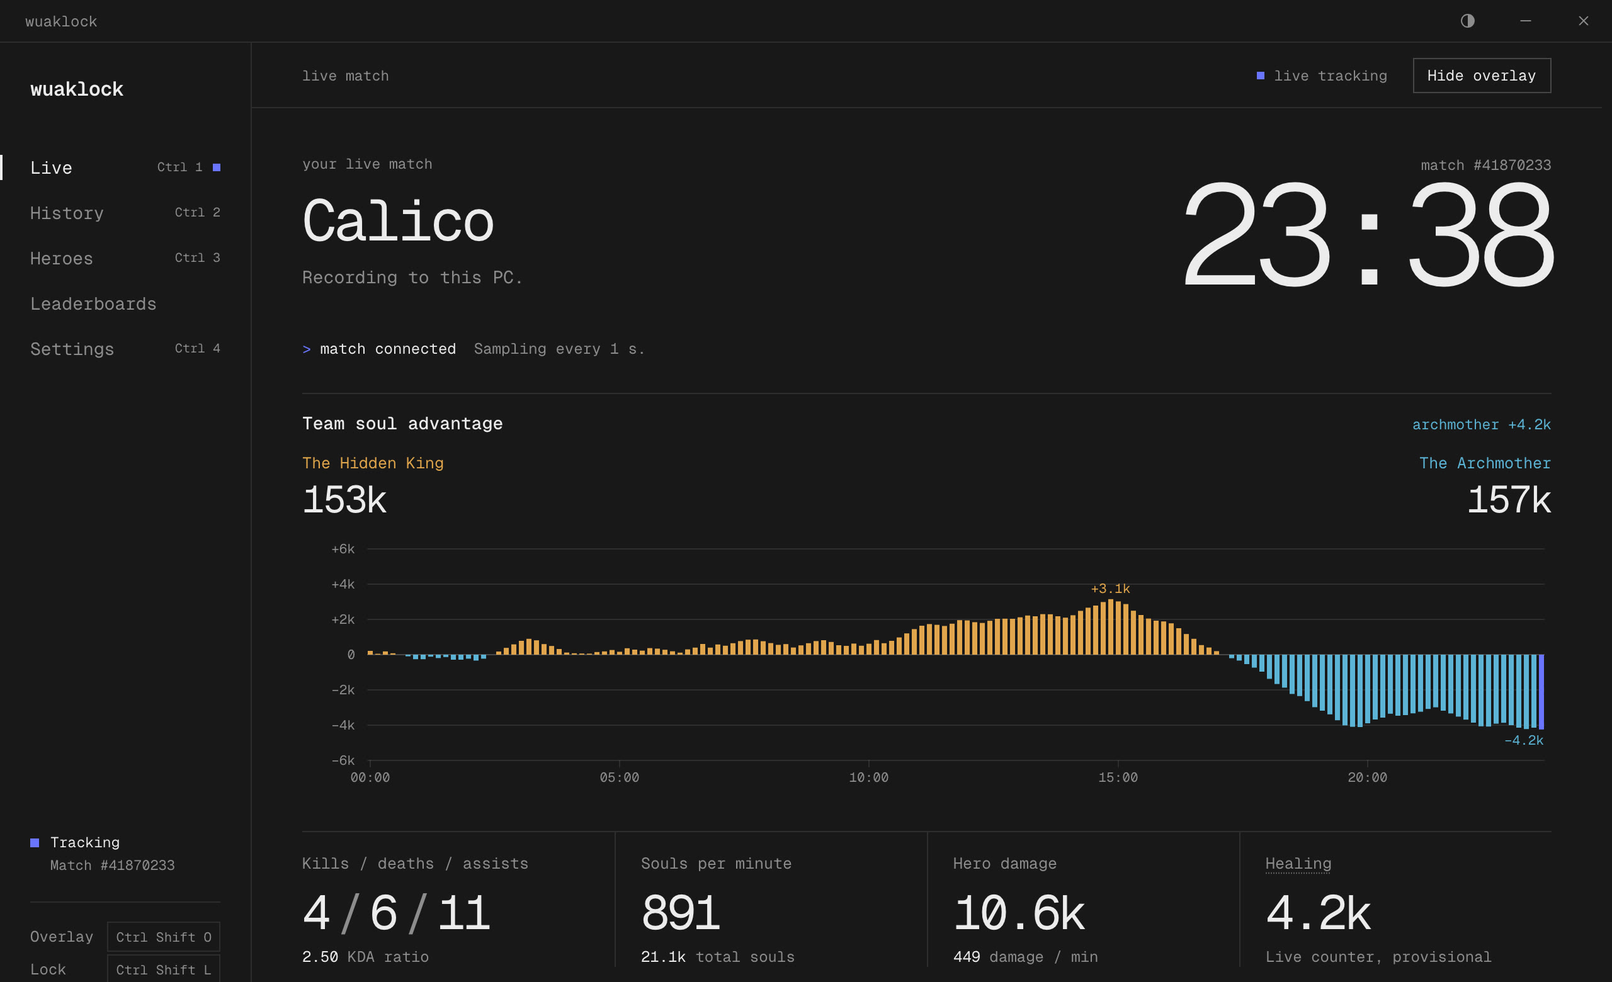
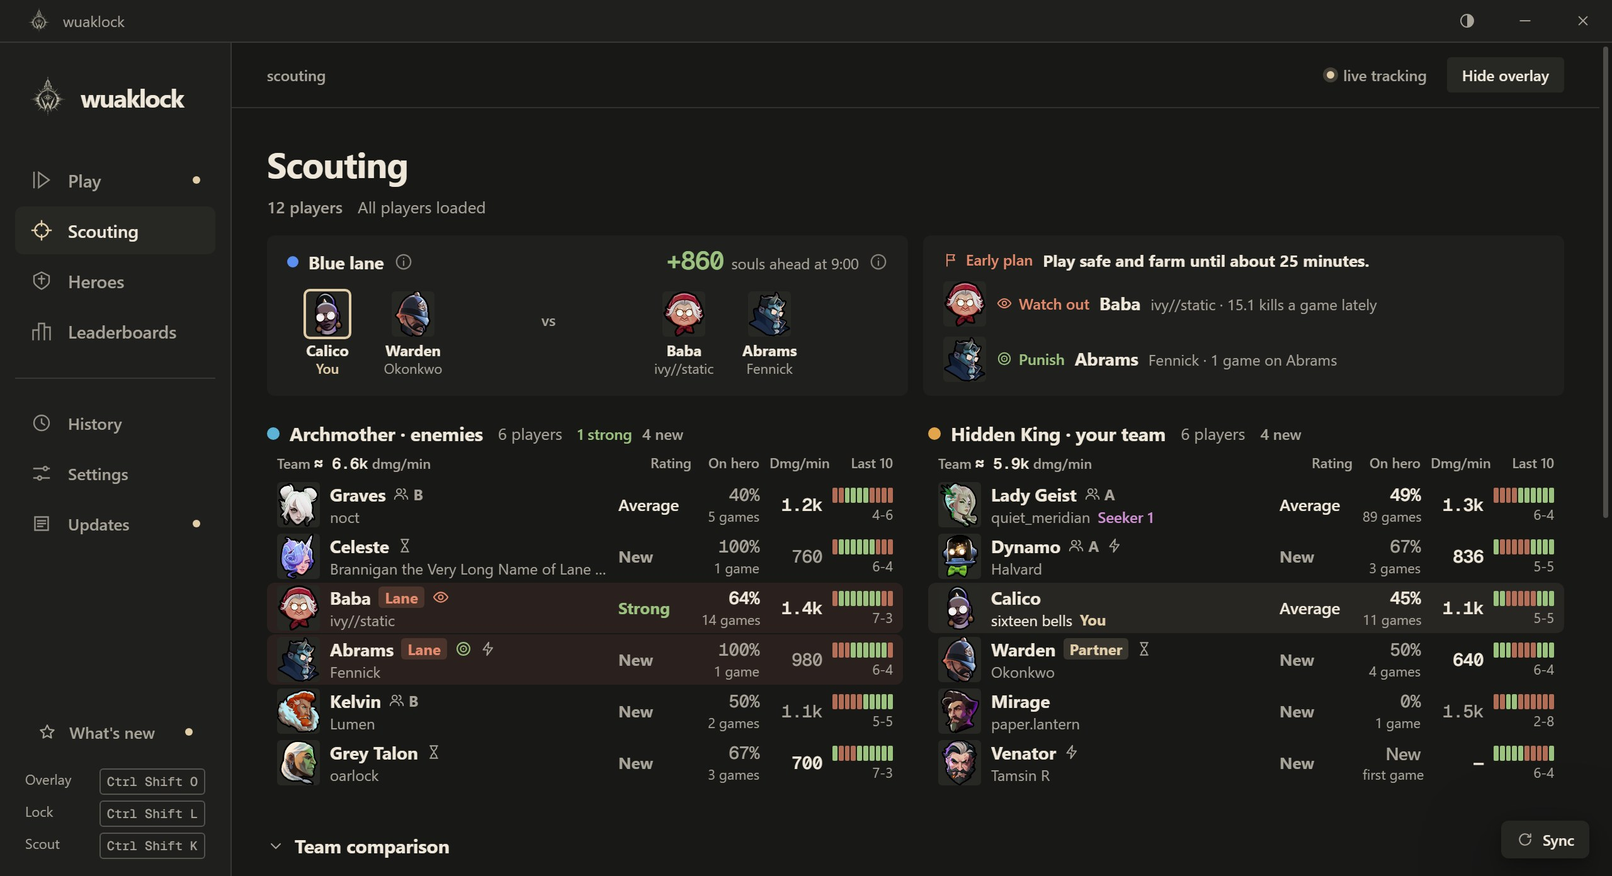
WuakLock page: free download, current features, honest safety note; privacy policy brought up to date
- Download for Windows links to the public releases; status now Free /
  Early access instead of In development.
- Copy and both screenshots show the current app: next buy, Scouting
  ratings, match grades and the opt-in leaderboard (sample data).
- New 'Is it safe?' section: reads game memory, unofficial, unsigned.
- Privacy policy (effective November 3, 2026): scouting is opt-in,
  update checks on GitHub, the optional leaderboard (what it stores,
  what is public, how leaving deletes it), Discord, feedback, sharing.

diff --git a/wuaklock/index.html b/wuaklock/index.html
@@ -5,9 +5,9 @@
   <meta name="viewport" content="width=device-width,initial-scale=1">
   <meta name="theme-color" content="#080a09">
   <title>WuakLock — A Deadlock companion</title>
-  <meta name="description" content="A Windows companion for Deadlock. Live stats over the game, a wider view on your second screen, and public match history for lobby scouting. In development.">
+  <meta name="description" content="A free Windows companion for Deadlock: what to buy next and why, the enemy team scouted on the loading screen, a grade for every match, and a community leaderboard.">
   <meta property="og:title" content="WuakLock — A Deadlock companion">
-  <meta property="og:description" content="Read the city. Live overlay, lobby scouting and local match history for Deadlock. Windows · in development.">
+  <meta property="og:description" content="Read the city. Next buy, lobby scouting, match grades and a community leaderboard for Deadlock. Free for Windows.">
   <meta property="og:image" content="https://jakedev.org/wuaklock/emblem.png">
   <meta property="og:type" content="website">
   <meta property="og:url" content="https://jakedev.org/wuaklock/">
@@ -23,7 +23,7 @@
   <header class="masthead">
     <a class="wordmark" href="./" aria-label="WuakLock home"><img src="logo.png" width="38" height="38" alt=""><span>wuaklock</span></a>
     <span class="masthead-note">An independent Deadlock companion</span>
-    <nav aria-label="WuakLock"><a href="privacy/">Privacy</a><a href="terms/">Terms</a></nav>
+    <nav aria-label="WuakLock"><a href="#safety">Is it safe?</a><a href="privacy/">Privacy</a><a href="terms/">Terms</a><a href="https://github.com/quakeob/wuaklock-releases/releases/latest">Download</a></nav>
   </header>
 
   <main>
@@ -36,11 +36,12 @@
       <div class="hero-copy">
         <p class="eyebrow"><span class="cross" aria-hidden="true">+</span> A companion for Deadlock</p>
         <h1 id="hero-title">Read<br> the city<span class="title-stop">.</span></h1>
-        <p class="hero-description">Live overlay. Lobby scouting.<br> A wider view of the match.</p>
-        <a class="text-link hero-link" href="#companion">Explore WuakLock <span aria-hidden="true">↗</span></a>
+        <p class="hero-description">What to buy next. Who to watch.<br> A grade for every match.</p>
+        <a class="text-link hero-link" href="https://github.com/quakeob/wuaklock-releases/releases/latest">Download for Windows <span aria-hidden="true">↗</span></a>
+        <a class="text-link hero-link hero-link-quiet" href="#companion">Explore WuakLock <span aria-hidden="true">↓</span></a>
       </div>
       <div class="hero-baseline">
-        <p class="build-status"><span class="status-dot" aria-hidden="true"></span> Windows <span class="separator" aria-hidden="true">/</span> In development</p>
+        <p class="build-status"><span class="status-dot" aria-hidden="true"></span> Windows <span class="separator" aria-hidden="true">/</span> Free <span class="separator" aria-hidden="true">/</span> Early access</p>
         <a class="scroll-cue" href="#companion" aria-label="Explore WuakLock below the skyline"><span>Below the skyline</span><span aria-hidden="true">↓</span></a>
       </div>
     </section>
@@ -51,16 +52,16 @@
         <h2 id="intro-title">The match moves fast.<br> Keep the bigger picture.</h2>
       </div>
       <div class="intro-description">
-        <p>WuakLock brings live match stats, your recorded games and public community data into one Windows app.</p>
-        <p>Keep a small overlay over Deadlock, or give the match room to breathe on your second screen.</p>
+        <p>WuakLock reads your match as you play and brings in public community data: what to buy next, who you're up against, and how you played.</p>
+        <p>Scout the lobby on the loading screen, keep a small card over the game, and look back at every match afterwards.</p>
       </div>
       <figure class="dashboard-figure">
-        <div class="figure-heading"><span>On your second screen</span><span class="preview-label">Development preview</span></div>
-        <a class="image-link" href="dashboard-shot.jpg" target="_blank" rel="noopener" aria-label="Open full-size dashboard preview in a new tab">
-          <img src="dashboard-shot.jpg" width="2560" height="1560" alt="WuakLock's dark dashboard with a live-match clock, team soul advantage timeline and player statistics." loading="lazy" decoding="async">
+        <div class="figure-heading"><span>Scouting, on the loading screen</span><span class="preview-label">Sample data</span></div>
+        <a class="image-link" href="dashboard-shot.jpg" target="_blank" rel="noopener" aria-label="Open full-size Scouting screenshot in a new tab">
+          <img src="dashboard-shot.jpg" width="2560" height="1392" alt="WuakLock's Scouting page: your lane matchup and early-game plan, then both teams side by side with every player rated Strong, Average, Weak or New." loading="lazy" decoding="async">
           <span class="image-expand" aria-hidden="true">↗</span>
         </a>
-        <figcaption><span>Dashboard shown with sample data.</span><span>Live view / Match history / Community data</span></figcaption>
+        <figcaption><span>Scouting shown with sample players.</span><span>Scouting / Play / History / Leaderboards</span></figcaption>
       </figure>
     </section>
 
@@ -68,17 +69,17 @@
       <div class="field-copy">
         <p class="eyebrow"><span class="index">02</span> In the moment</p>
         <h2 id="overlay-title">Eyes on<br> the fight.</h2>
-        <p>Your numbers, close at hand. A compact overlay keeps live stats over the game, with a position you control.</p>
+        <p>The next buy from the best-winning build for your hero, over the game. Open the shop and hover it to see why.</p>
         <ul class="feature-lines">
-          <li><span>Souls, K/D/A and hero damage</span><span aria-hidden="true">↗</span></li>
-          <li><span>Team soul lead and Mid Boss timer</span><span aria-hidden="true">↗</span></li>
+          <li><span>Next buy, and a counter item when the enemy needs one</span><span aria-hidden="true">↗</span></li>
+          <li><span>The enemy team on the loading screen: your lane, who to watch</span><span aria-hidden="true">↗</span></li>
           <li><span>Lock it for clicks to pass through</span><span aria-hidden="true">↗</span></li>
         </ul>
       </div>
       <figure class="overlay-figure">
         <div class="figure-heading"><span>Over the game</span><span aria-hidden="true">02 / LIVE</span></div>
-        <a class="image-link" href="overlay-shot.jpg" target="_blank" rel="noopener" aria-label="Open full-size overlay preview in a new tab">
-          <img src="overlay-shot.jpg" width="1280" height="520" alt="A compact WuakLock statistics overlay across the top of a Deadlock game scene." loading="lazy" decoding="async">
+        <a class="image-link" href="overlay-shot.jpg" target="_blank" rel="noopener" aria-label="Open full-size overlay screenshot in a new tab">
+          <img src="overlay-shot.jpg" width="1520" height="1040" alt="WuakLock's in-game cards: the next item to buy with a counter item, and the enemy team with lane, watch-out and party tags." loading="lazy" decoding="async">
           <span class="image-expand" aria-hidden="true">↗</span>
         </a>
         <figcaption>Overlay shown with sample data.</figcaption>
@@ -92,11 +93,11 @@
         <h2 id="intel-title">Go into the next<br> match with context.</h2>
       </div>
       <div class="intel-entries">
-        <article class="intel-entry"><span class="entry-symbol" aria-hidden="true">[+]</span><div><h3>Read the lobby.</h3><p>Scout players through their public match history. Community data adds context to the names on the scoreboard.</p></div></article>
-        <article class="intel-entry"><span class="entry-symbol" aria-hidden="true">[%]</span><div><h3>Know your hero.</h3><p>Explore hero win rates, builds and leaderboards, with sample sizes alongside the numbers.</p></div></article>
-        <article class="intel-entry"><span class="entry-symbol" aria-hidden="true">[≡]</span><div><h3>Keep your history.</h3><p>Return to your recorded matches. Local records keep the story of a game after the scoreboard closes.</p></div></article>
+        <article class="intel-entry"><span class="entry-symbol" aria-hidden="true">[+]</span><div><h3>Read the lobby.</h3><p>Both teams side by side, every player rated Strong, Average, Weak or New from their public record, with your lane matchup and an early-game plan.</p></div></article>
+        <article class="intel-entry"><span class="entry-symbol" aria-hidden="true">[%]</span><div><h3>Grade every match.</h3><p>An S to F grade against players on your hero in games of similar length. An on-pace grade during the match, and one for every game in your history.</p></div></article>
+        <article class="intel-entry"><span class="entry-symbol" aria-hidden="true">[≡]</span><div><h3>Climb the board.</h3><p>Join the Wuaklock leaderboard with Steam and see how your grades stack up, overall and on each hero. Optional, and leaving deletes your entry.</p></div></article>
       </div>
-      <p class="data-note">Scouting and hero data use the independent community Deadlock API. Availability depends on the public data it provides.</p>
+      <p class="data-note">Scouting, grades and the leaderboard use public match data from the independent community Deadlock API. Availability depends on the data it provides.</p>
     </section>
 
     <section class="closing-section content-width" aria-labelledby="privacy-title">
@@ -104,14 +105,29 @@
       <div class="closing-copy">
         <p class="eyebrow"><span class="index">04</span> Yours to keep</p>
         <h2 id="privacy-title">Your matches.<br> Your machine.</h2>
-        <p>Local match records. No account, ads or analytics. Public community data when you need it.</p>
+        <p>Match records stay on your PC. No ads, analytics or required account. Public scouting is off until you allow it, and the leaderboard is opt-in.</p>
         <a class="text-link" href="privacy/">How WuakLock handles data <span aria-hidden="true">↗</span></a>
       </div>
     </section>
 
-    <section class="development content-width" aria-label="Development status">
-      <div><p class="eyebrow">Windows / In development</p><p class="development-title">See you in the city.</p></div>
-      <a class="text-link" href="mailto:jake@bryt.works">Get in touch <span aria-hidden="true">↗</span></a>
+    <section class="intel-section content-width" id="safety" aria-labelledby="safety-title">
+      <div class="intel-heading">
+        <p class="eyebrow"><span class="index">05</span> Before you install</p>
+        <h2 id="safety-title">Is it safe?</h2>
+      </div>
+      <div class="intel-entries">
+        <article class="intel-entry"><span class="entry-symbol" aria-hidden="true">[!]</span><div><h3>It reads the game's memory.</h3><p>Live features come from reading Deadlock's memory while you play. WuakLock only reads: it never writes to the game, injects code or sends input. Even so, anti-cheat can treat any tool that reads game memory as suspicious, and there is no guarantee for your account. Use it at your own risk.</p></div></article>
+        <article class="intel-entry"><span class="entry-symbol" aria-hidden="true">[~]</span><div><h3>Unofficial.</h3><p>WuakLock is an independent project, not made, endorsed or supported by Valve.</p></div></article>
+        <article class="intel-entry"><span class="entry-symbol" aria-hidden="true">[✓]</span><div><h3>Not signed yet.</h3><p>Windows SmartScreen may warn about the download. Choose More info, then Run anyway, if you trust this source.</p></div></article>
+      </div>
+    </section>
+
+    <section class="development content-width" aria-label="Download">
+      <div><p class="eyebrow">Windows / Free / Updates itself</p><p class="development-title">See you in the city.</p></div>
+      <div class="development-links">
+        <a class="text-link" href="https://github.com/quakeob/wuaklock-releases/releases/latest">Download for Windows <span aria-hidden="true">↗</span></a>
+        <a class="text-link" href="https://github.com/quakeob/wuaklock-releases/issues/new">Send feedback <span aria-hidden="true">↗</span></a>
+      </div>
     </section>
   </main>
 

diff --git a/wuaklock/privacy/index.html b/wuaklock/privacy/index.html
@@ -24,43 +24,63 @@ footer a{color:var(--dim)}
 </style></head><body><main>
 <header><a class="mark" href="../"><img src="../logo.png" alt="" width="56" height="56">WuakLock</a><nav aria-label="WuakLock policies"><a href="../privacy/" aria-current=page>Privacy</a><a href="../terms/">Terms</a></nav></header>
 <h1>Privacy Policy</h1>
-<p class="meta"><b>Effective date:</b> October 30, 2026<br><b>Developer:</b> Jake Davis<br><b>Contact:</b> <a href="mailto:jake@bryt.works">jake@bryt.works</a></p>
-<p class="intro">WuakLock is a Windows companion app for Deadlock. It has no accounts, ads or analytics. Your data stays on your PC, and the only service the app contacts is the community Deadlock API, for public match data.</p>
+<p class="meta"><b>Effective date:</b> November 3, 2026<br><b>Developer:</b> Jake Davis<br><b>Contact:</b> <a href="mailto:jake@bryt.works">jake@bryt.works</a></p>
+<p class="intro">WuakLock is a Windows companion app for Deadlock. It has no ads or analytics, and you don't need an account. Your match records stay on your PC. The app contacts the community Deadlock API for public match data and GitHub for updates. It contacts the WuakLock leaderboard only if you choose to join it.</p>
 
 <h2>What stays on your PC</h2>
-<p>WuakLock keeps everything in the <code>data</code> folder next to <code>Wuaklock.exe</code>:</p>
+<p>WuakLock keeps its data in a <code>data</code> folder: <code>%LOCALAPPDATA%\Wuaklock\data</code> once installed, or next to <code>Wuaklock.exe</code> if you run it without installing. That folder holds:</p>
 <ul>
-<li><b>Settings:</b> the Steam account ID you enter (optional), your Deadlock installation folder, and overlay preferences such as opacity, size, position and visibility.</li>
+<li><b>Settings:</b> the Steam account ID you enter (optional), your Deadlock installation folder, overlay preferences such as opacity, size, position and visibility, your theme, and the choices you made: whether public scouting is allowed, whether Discord status is on, and which update notes you've read.</li>
 <li><b>Recorded matches:</b> for each match you play with WuakLock running, the scoreboard it observed. That includes every player's display name, Steam account ID, hero, kills, deaths, assists, souls, damage, healing and items, along with match timing and the result. Recordings stay until you delete them.</li>
 <li><b>Cached community data:</b> copies of recent responses from the community Deadlock API, so pages load quickly and the app respects the service's rate limits.</li>
 <li><b>Diagnostic logs:</b> <code>app.log</code>, with connection and error messages, and the <code>debug.log</code> written by the app's browser engine.</li>
-<li><b>Your light or dark theme choice.</b></li>
+<li><b>Leaderboard sign-in</b>, only if you join the leaderboard: a session key, encrypted with Windows' own data protection.</li>
 </ul>
-<p>WuakLock never uploads this folder. Delete it to remove everything the app has stored.</p>
+<p>WuakLock never uploads this folder. Delete it to remove everything the app has stored on your PC.</p>
 
 <h2>Reading the game</h2>
-<p>While Deadlock is running, WuakLock opens <code>deadlock.exe</code> with permission to query and read its memory, and nothing more. It reads scoreboard statistics, match timing, Mid Boss status and your own permanent buff count. It does not read world positions, hidden enemy information, Steam credentials, chat or your keyboard and mouse input. It never writes to the game, the game's files or your system settings.</p>
-<p>What it reads is shown in the app and saved in your recorded matches. It is not sent anywhere.</p>
+<p>While Deadlock is running, WuakLock opens <code>deadlock.exe</code> with permission to query and read its memory, and nothing more. It reads scoreboard statistics (each player's hero, team, lane, kills, deaths, assists, souls, damage, healing and items), each player's Steam account ID, match timing, Mid Boss status and your own permanent buff count. It does not read world positions, hidden enemy information, Steam credentials, chat or your keyboard and mouse input. It never writes to the game, the game's files or your system settings.</p>
+<p>What it reads is shown in the app and saved in your recorded matches. It is not sent to the developer.</p>
+<p>WuakLock is unofficial. Anti-cheat systems can treat any tool that reads game memory as suspicious, and there is no guarantee for your account.</p>
 
 <h2>The community Deadlock API</h2>
 <p>For public data, WuakLock connects to <code>api.deadlock-api.com</code>, an independent community service. It is not run by Valve or by WuakLock. Requests can include:</p>
 <ul>
-<li>the account ID you entered in Settings, when you open Player history;</li>
-<li>the Steam account IDs of the players in your current match, to look up their public match history and rank. WuakLock does this automatically during live matches, and when you press Scout lobby;</li>
+<li>the account ID you entered in Settings, when you open your history or profile;</li>
+<li>the Steam account IDs of the players in your current match, to look up their public records, ranks and recent matches. This is <b>off until you allow public scouting</b>. Once allowed, it happens automatically on the loading screen and during matches, and you can turn it off again under Scouting › Sources &amp; privacy;</li>
+<li>the account ID of a player whose profile you open;</li>
 <li>match IDs, to fetch final match data after a recorded match ends;</li>
-<li>hero IDs and the filters you choose on the Heroes and Leaderboards pages.</li>
+<li>hero IDs, match lengths and the filters you choose, for builds, grades and leaderboards.</li>
 </ul>
 <p>Hero art and item icons load from the same service's image host. Like any web request, these reveal your IP address, and WuakLock identifies itself by name and version. The service's own practices apply to what it receives; see <a href="https://deadlock-api.com">deadlock-api.com</a>.</p>
 <p>If you block WuakLock's network access, live tracking and local recording keep working. Only the community features stop.</p>
 
-<h2>Links and launching the game</h2>
-<p>The Launch Deadlock button opens Steam through its <code>steam://</code> link. Links to a short list of websites open in your browser, where that website's own policy applies.</p>
+<h2>Updates</h2>
+<p>An installed copy checks <a href="https://github.com/quakeob/wuaklock-releases">github.com/quakeob/wuaklock-releases</a> for a new version about every three hours. It downloads new versions from GitHub and checks each one's SHA-256 fingerprint before installing it. These requests reveal your IP address to GitHub, and WuakLock identifies itself by name. They carry nothing else about you. See <a href="https://docs.github.com/en/site-policy/privacy-policies/github-general-privacy-statement">GitHub's privacy statement</a>.</p>
+
+<h2>The WuakLock leaderboard (optional)</h2>
+<p>The leaderboard ranks people who choose to join, using their public match history. Nothing is sent unless you press <b>Join with Steam</b>. When you do:</p>
+<ul>
+<li>Steam's own sign-in page opens in your browser to prove which account is yours. WuakLock never sees your Steam password. Steam's policy applies to that page.</li>
+<li>The leaderboard server stores your <b>Steam account ID</b>, your <b>public Steam name</b>, your <b>rank</b>, the date you joined, and scores worked out from your public matches: your average grade, graded games, wins, average K/D/A, main hero and per-hero averages. It gets these from the community Deadlock API; the app never sends match numbers itself.</li>
+<li>Your name, account ID, scores, record, main hero and rank are <b>public</b> on the board, in the app and to anyone who reads the board's address.</li>
+<li>The server keeps only a fingerprint (SHA-256) of your session key. The one-time sign-in hand-off is deleted once the app collects it, and after 10 minutes at most.</li>
+</ul>
+<p><b>Leave</b> on the Leaderboards page deletes your entry, your hero scores and every session at once. The server runs on Cloudflare Workers, which may keep standard request logs such as IP addresses; see <a href="https://www.cloudflare.com/privacypolicy/">Cloudflare's privacy policy</a>.</p>
+
+<h2>Discord, feedback, sharing and links</h2>
+<ul>
+<li><b>Discord status</b> is off until you turn it on in Settings. When it's on, WuakLock tells the Discord app on your PC your hero and match time to show on your profile. It talks to the Discord app directly, not to a WuakLock server.</li>
+<li><b>Feedback</b> opens a new GitHub issue in your browser, filled in with what you wrote and your WuakLock version. Nothing is sent unless you post it there, and GitHub issues are public.</li>
+<li><b>Share images and diagnostics</b> are copied to your clipboard or saved to a file only when you ask. Copied diagnostics leave out account IDs, match IDs and folder paths.</li>
+<li>The <b>Launch Deadlock</b> button opens Steam through its <code>steam://</code> link. Links to a short list of websites open in your browser, where that website's own policy applies.</li>
+</ul>
 
 <h2>What WuakLock doesn't do</h2>
-<p>It doesn't create accounts, use cookies or advertising identifiers, run analytics or crash reporting, or send your recordings, settings or logs to the developer. Your information is never sold or shared.</p>
+<p>It doesn't use cookies or advertising identifiers, run analytics or crash reporting, or send your recordings, settings or logs to the developer. Your information is never sold.</p>
 
 <h2>Children</h2>
-<p>WuakLock is not directed to children under 13, and it does not knowingly collect personal information from them. It stores nothing outside your PC.</p>
+<p>WuakLock is not directed to children under 13, and it does not knowingly collect personal information from them.</p>
 
 <h2>These pages</h2>
 <p>This policy and the terms load no scripts, cookies or analytics. jakedev.org is hosted on GitHub Pages, which may keep standard server logs such as IP addresses; see <a href="https://docs.github.com/en/site-policy/privacy-policies/github-general-privacy-statement">GitHub's privacy statement</a>.</p>
@@ -69,6 +89,6 @@ footer a{color:var(--dim)}
 <p>If WuakLock starts handling data differently, this page will be updated, with a new effective date, before that version is released.</p>
 
 <h2>Contact</h2>
-<p>For questions or requests about this policy, email <a href="mailto:jake@bryt.works">jake@bryt.works</a>.</p>
+<p>For questions or requests about this policy, including removing a leaderboard entry you can no longer reach, email <a href="mailto:jake@bryt.works">jake@bryt.works</a>.</p>
 <footer><span>WuakLock by Jake Davis</span><a href="mailto:jake@bryt.works">jake@bryt.works</a><a href="../privacy/">Privacy</a><a href="../terms/">Terms</a></footer>
 </main></body></html>

diff --git a/wuaklock/city.css b/wuaklock/city.css
@@ -174,3 +174,14 @@ h3 { margin: 0 0 9px; font-size: 16px; font-weight: 500; letter-spacing: -.04em;
 @media (prefers-reduced-motion: reduce) {
   *, *::before, *::after { scroll-behavior: auto !important; transition-duration: 0s !important; animation: none !important; }
 }
+
+/* Download first; the explore link sits beside it, quieter. */
+.hero-link-quiet { margin-left: 28px; color: var(--muted); border-color: var(--rule); }
+.development-links { display: flex; flex-wrap: wrap; gap: 8px 32px; }
+@media (max-width: 720px) {
+  .hero-link-quiet { margin-left: 0; display: flex; width: max-content; }
+  .development { flex-direction: column; align-items: flex-start; }
+}
+.masthead nav a { white-space: nowrap; }
+/* Phones: Privacy and Terms stay in the footer, so the top bar keeps Is it safe? and Download. */
+@media (max-width: 560px) { .masthead nav a[href="privacy/"], .masthead nav a[href="terms/"] { display: none; } }
